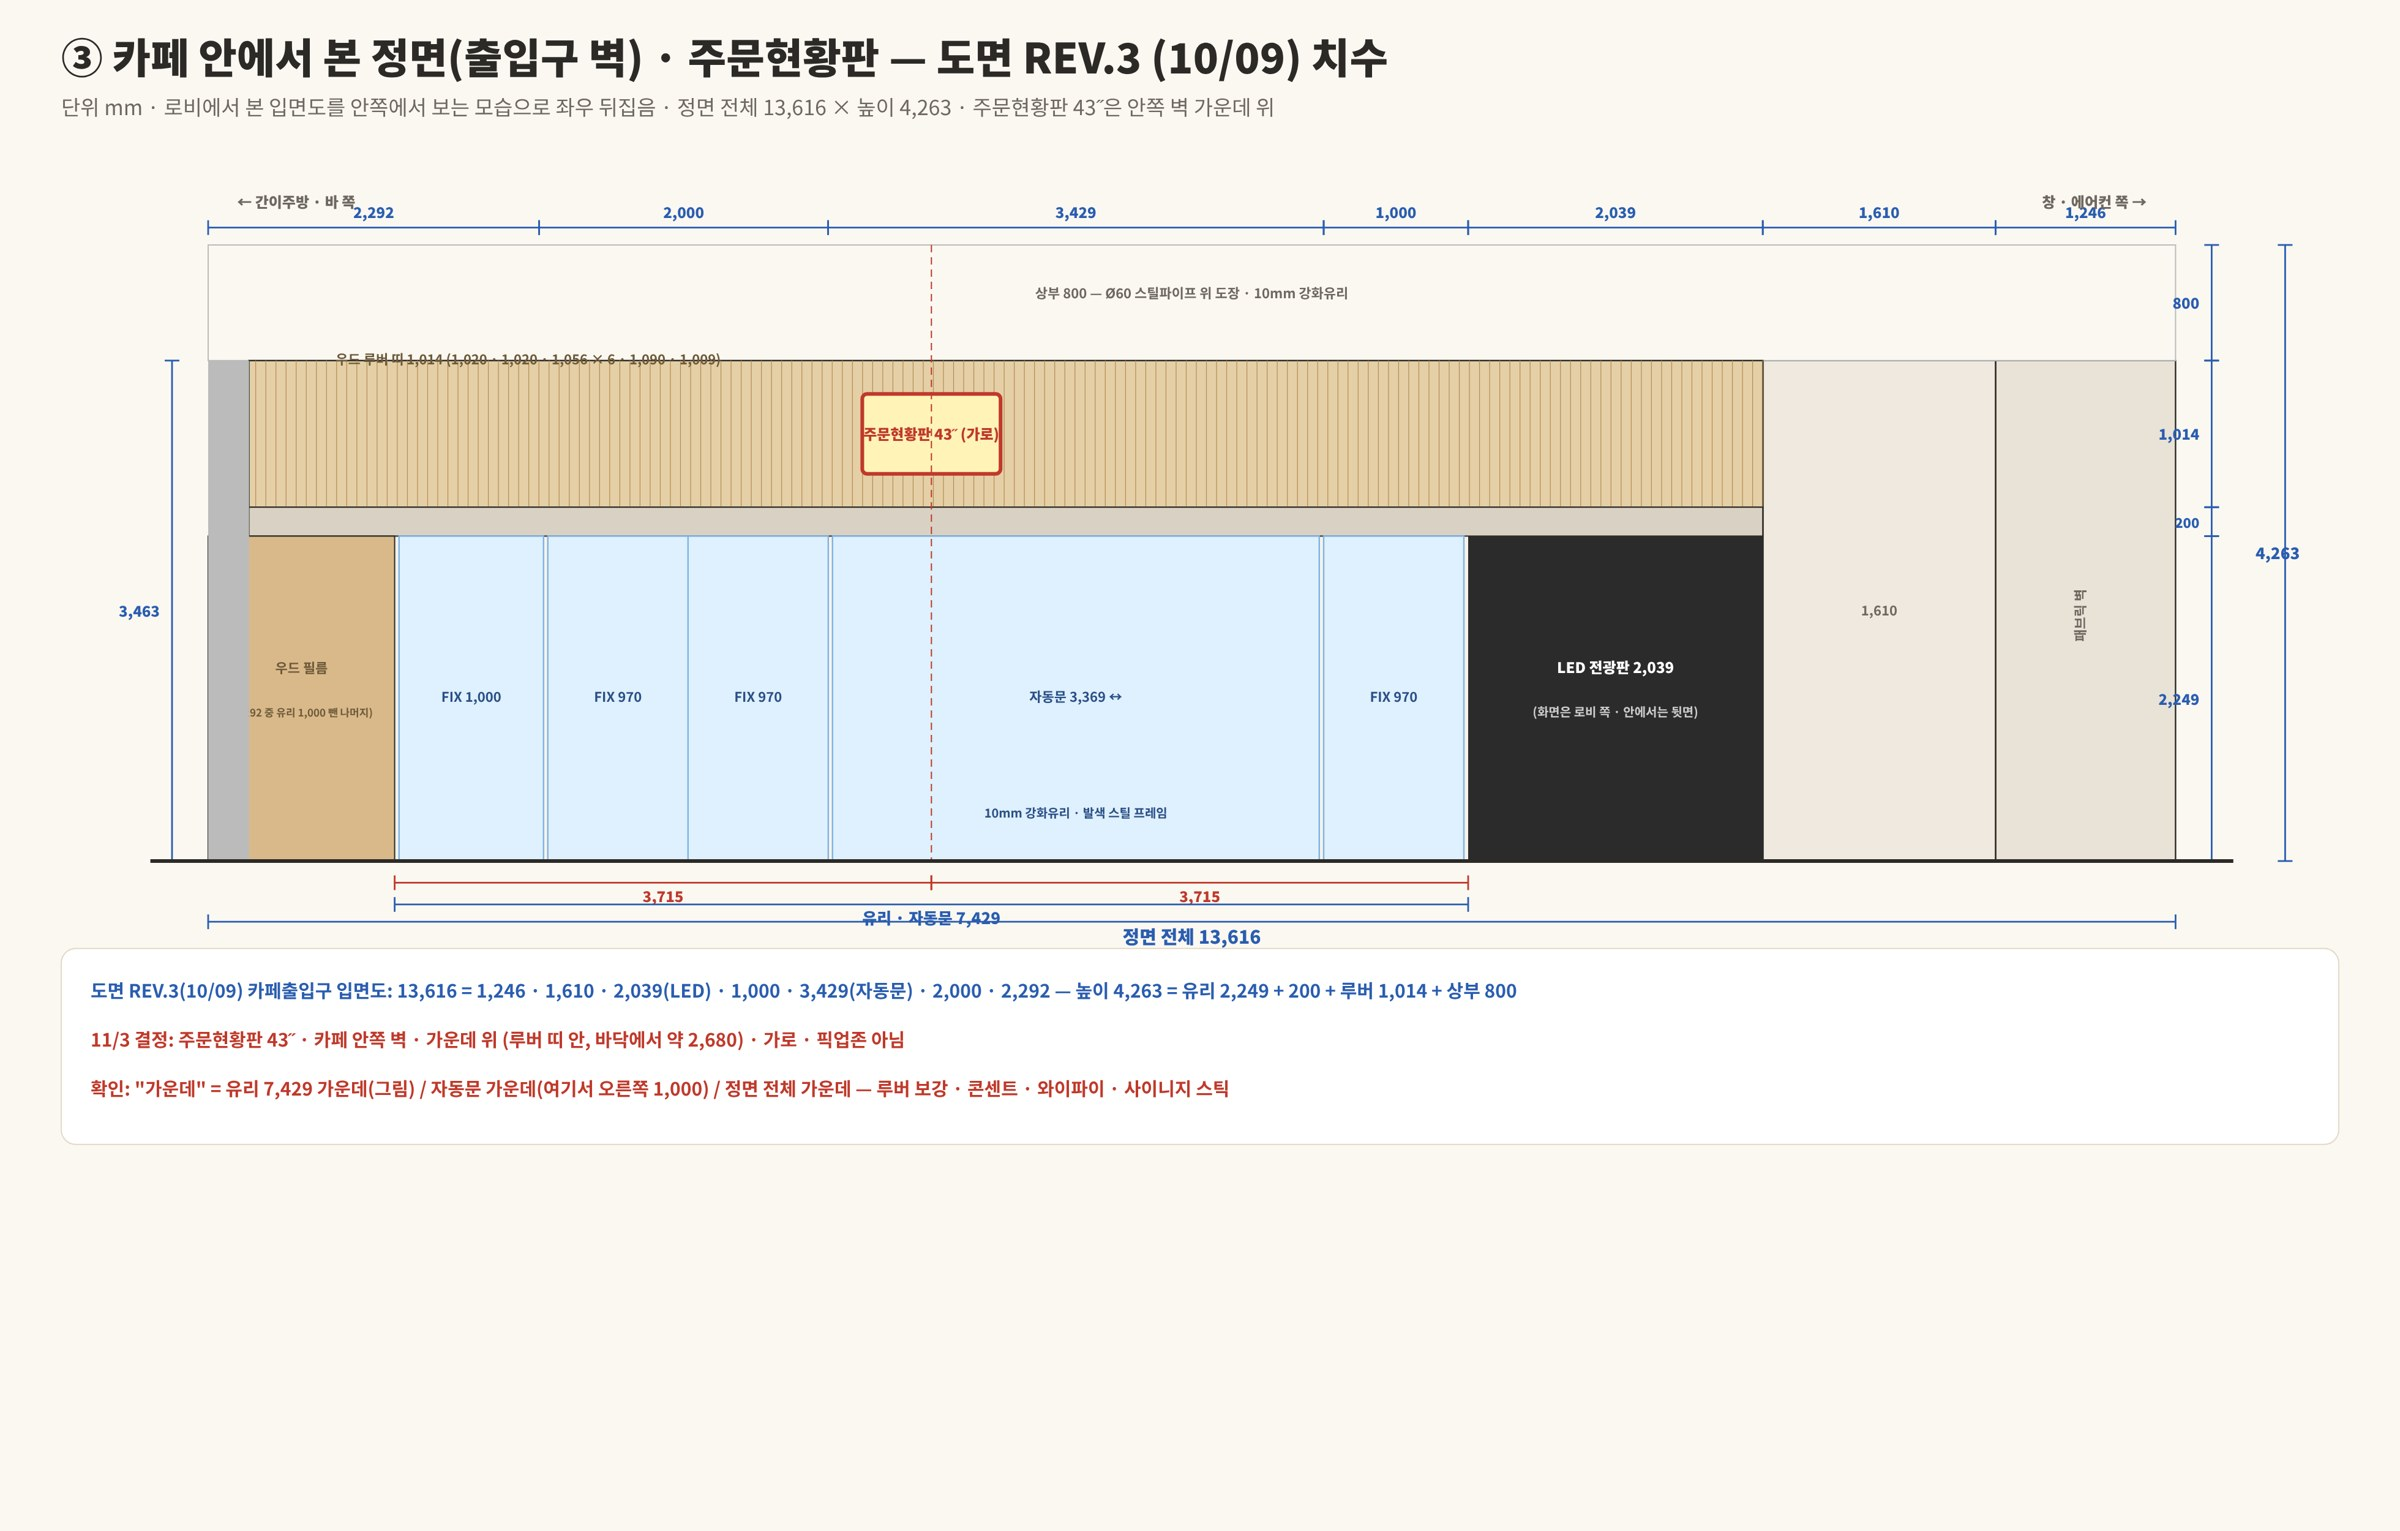
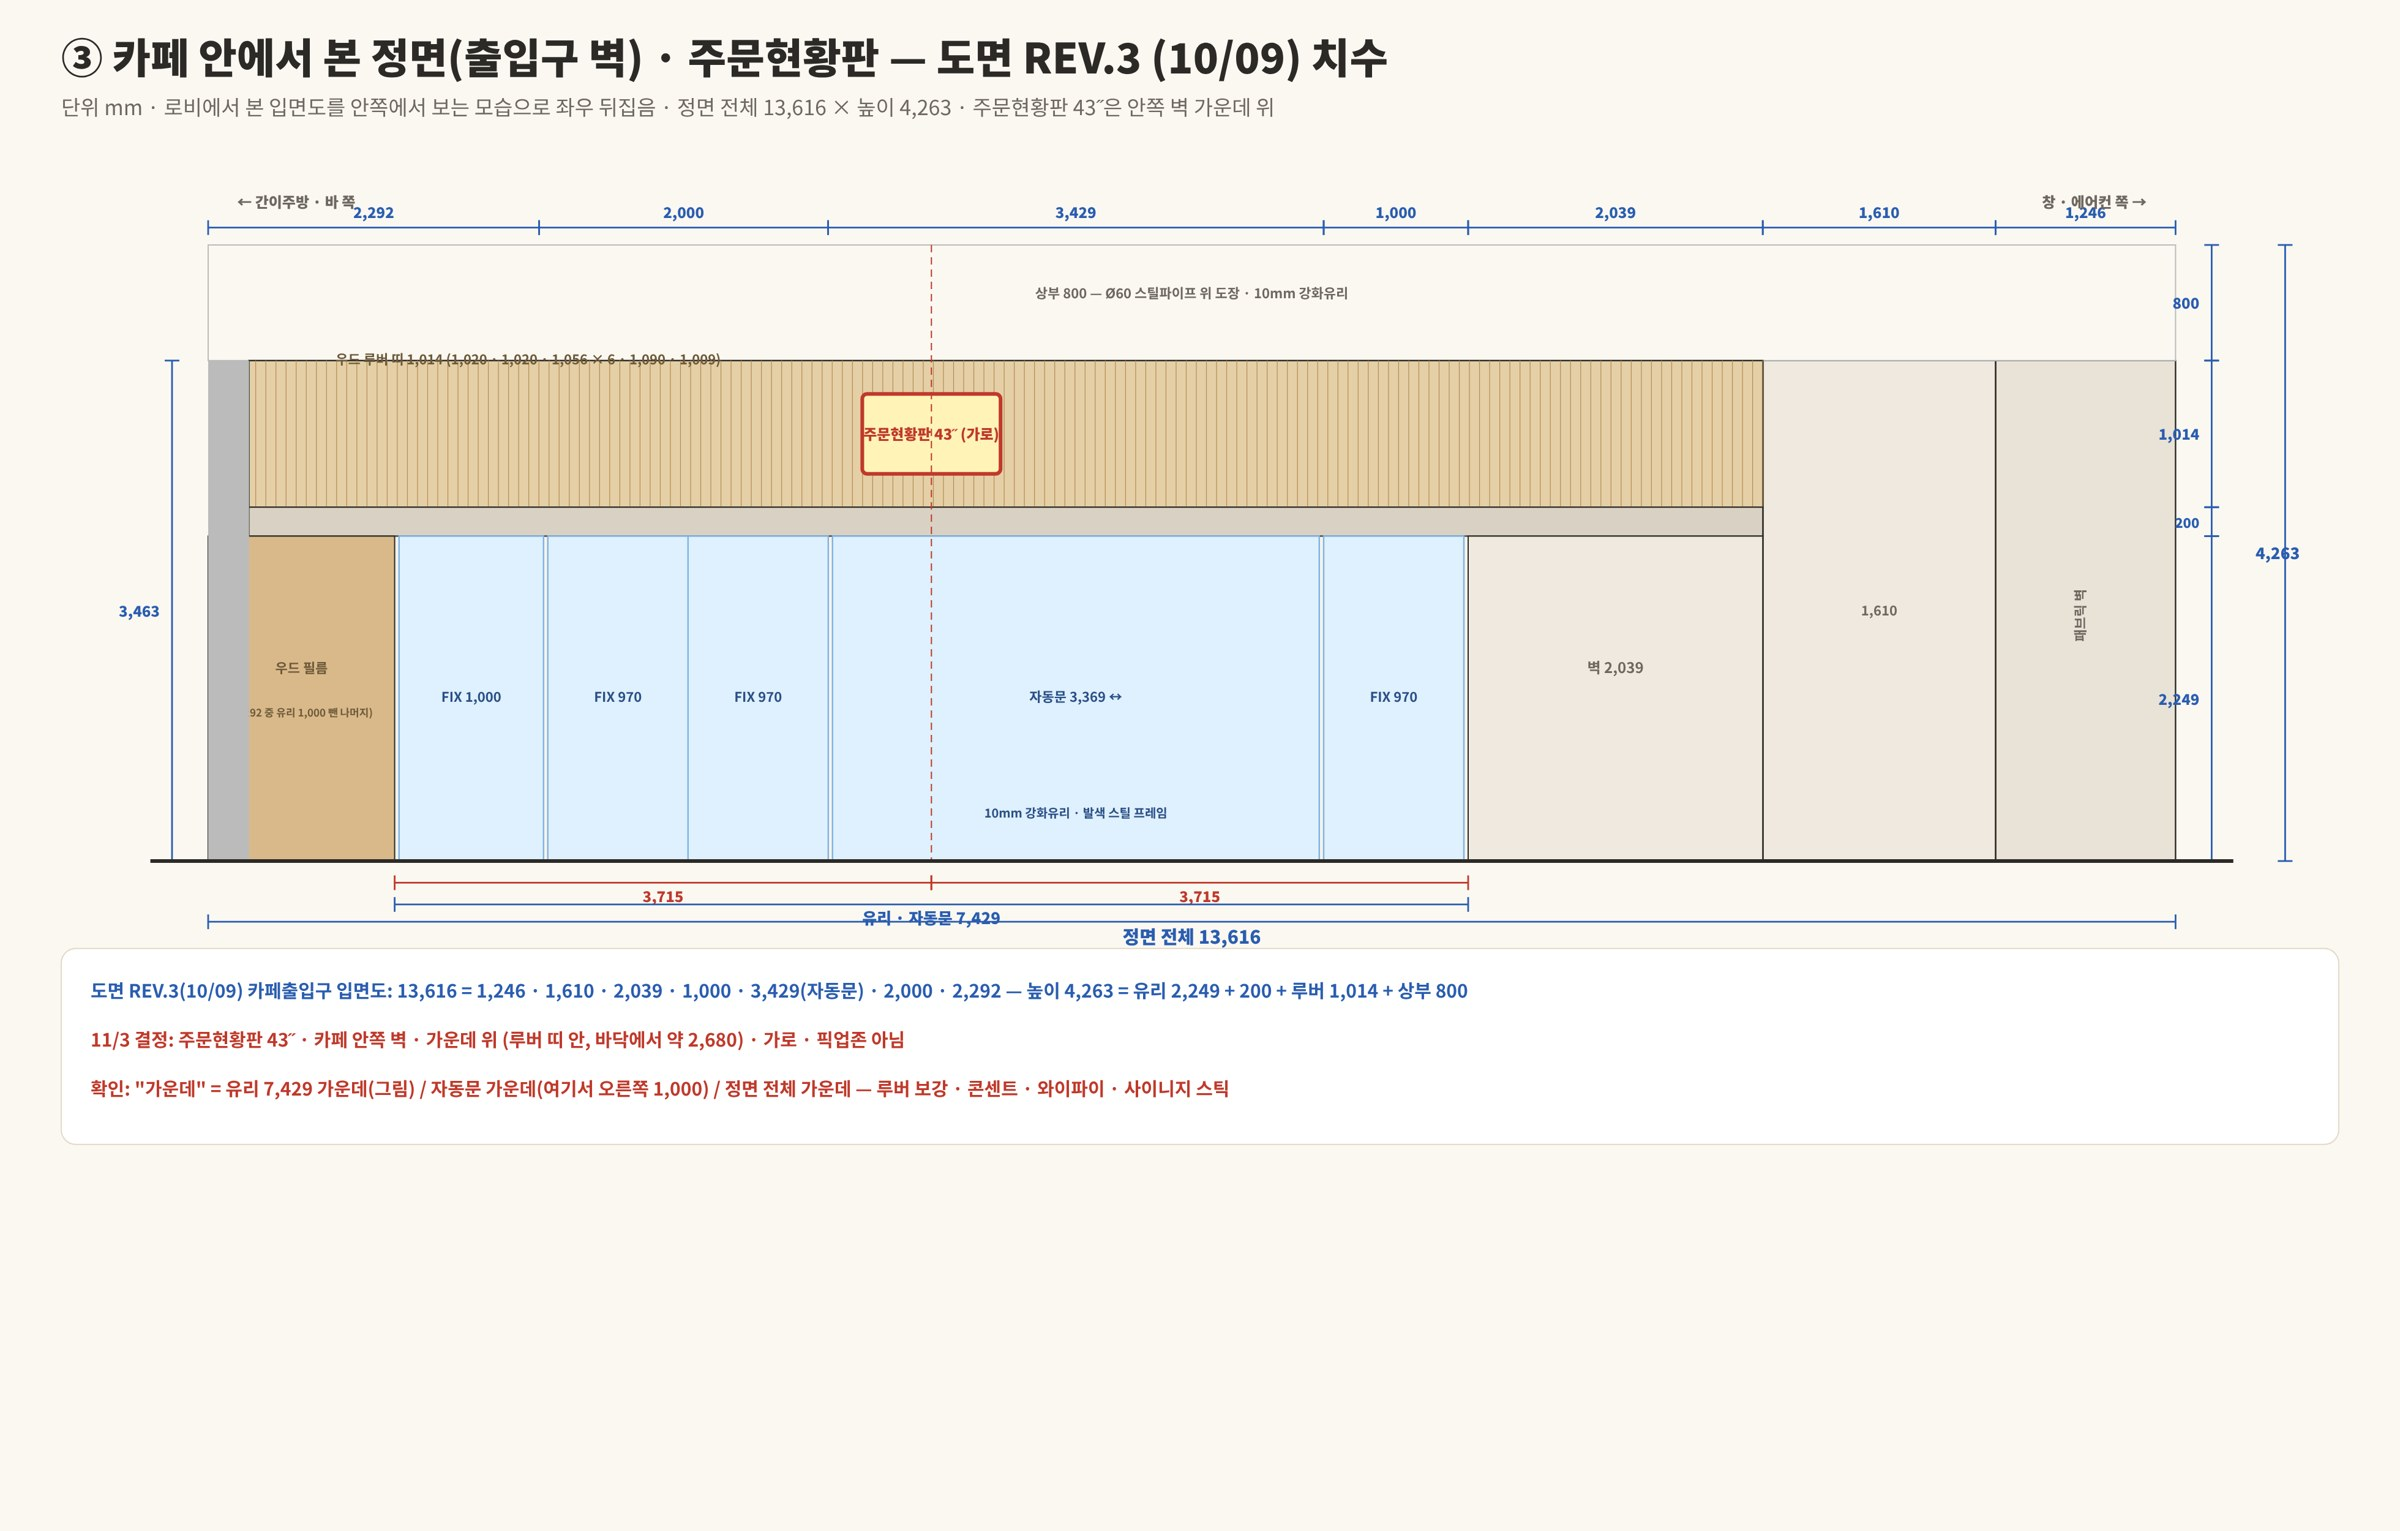
3번 정면 — 안쪽 모습에서 LED 전광판 표기 제거
Claude-Session: https://claude.ai/code/session_01KGSeNsWMpvg4KUGj47PaMD

Changed region(s): [[0.5938, 0.3377, 0.75, 0.5833], [0.2812, 0.6447, 0.625, 0.6754]]

diff --git a/tools-cafe-draw/frontwall.py b/tools-cafe-draw/frontwall.py
@@ -28,7 +28,7 @@ def pane(x,w,lab,fill='#dff0ff'):
 pane(g0+30,970,'FIX 970');pane(g0+1030,3369,'자동문 3,369 ↔');pane(g0+4429,970,'FIX 970');pane(g0+5399,970,'FIX 970');pane(g0+6399,1000,'FIX 1,000')
 T(o,X(g0+1030+3369/2),Y(300),'10mm 강화유리 · 발색 스틸 프레임',10,600,'#2a4f86')
 # LED 전광판 (로비 쪽 화면) 2,857~4,896 구간
-R(o,X(4896),Y(2249),2039*S,2249*S,'#2b2b2b','none');T(o,X(3876),Y(1300),'LED 전광판 2,039',12,800,'#fff');T(o,X(3876),Y(1000),'(화면은 로비 쪽 · 안에서는 뒷면)',10,600,'#ccc')
+R(o,X(4896),Y(2249),2039*S,2249*S,'#efe9df',INK,1);T(o,X(3876),Y(1300),'벽 2,039',12,700,MUT)
 # 우드 필름 2,292-283
 R(o,X(TOT),Y(2249),(TOT-12325)*S,2249*S,'#d9b98a',INK,1);T(o,X((TOT+12325)/2),Y(1300),'우드 필름',11,700,'#6e5a3a');T(o,X((TOT+12325)/2),Y(1000),'(2,292 중 유리 1,000 뺀 나머지)',8.5,600,'#6e5a3a')
 R(o,X(TOT),Y(3463),283*S,3463*S,'#bbb','none')
@@ -48,7 +48,7 @@ DIM(o,xr+60,Y(0),xr+60,Y(HT),'4,263',BL,-12,13)
 xl=X(TOT+250);DIM(o,xl,Y(0),xl,Y(3463),'3,463',BL,10,12)
 o.append(f'<line x1="{X(TOT+400)}" y1="{Y(0)}" x2="{X(-400)}" y2="{Y(0)}" stroke="{INK}" stroke-width="3"/>')
 T(o,X(TOT-200),Y(HT+260),'← 간이주방 · 바 쪽',12,800,MUT,'start');T(o,X(200),Y(HT+260),'창 · 에어컨 쪽 →',12,800,MUT,'end')
-NOTES(o,Y(-520)+10,[(BL,'도면 REV.3(10/09) 카페출입구 입면도: 13,616 = 1,246 · 1,610 · 2,039(LED) · 1,000 · 3,429(자동문) · 2,000 · 2,292 — 높이 4,263 = 유리 2,249 + 200 + 루버 1,014 + 상부 800'),
+NOTES(o,Y(-520)+10,[(BL,'도면 REV.3(10/09) 카페출입구 입면도: 13,616 = 1,246 · 1,610 · 2,039 · 1,000 · 3,429(자동문) · 2,000 · 2,292 — 높이 4,263 = 유리 2,249 + 200 + 루버 1,014 + 상부 800'),
  (RED,'11/3 결정: 주문현황판 43˝ · 카페 안쪽 벽 · 가운데 위 (루버 띠 안, 바닥에서 약 2,680) · 가로 · 픽업존 아님'),
  (RED,'확인: "가운데" = 유리 7,429 가운데(그림) / 자동문 가운데(여기서 오른쪽 1,000) / 정면 전체 가운데 — 루버 보강 · 콘센트 · 와이파이 · 사이니지 스틱')],W)
 apply_overlays(o,'front',X,Y)
